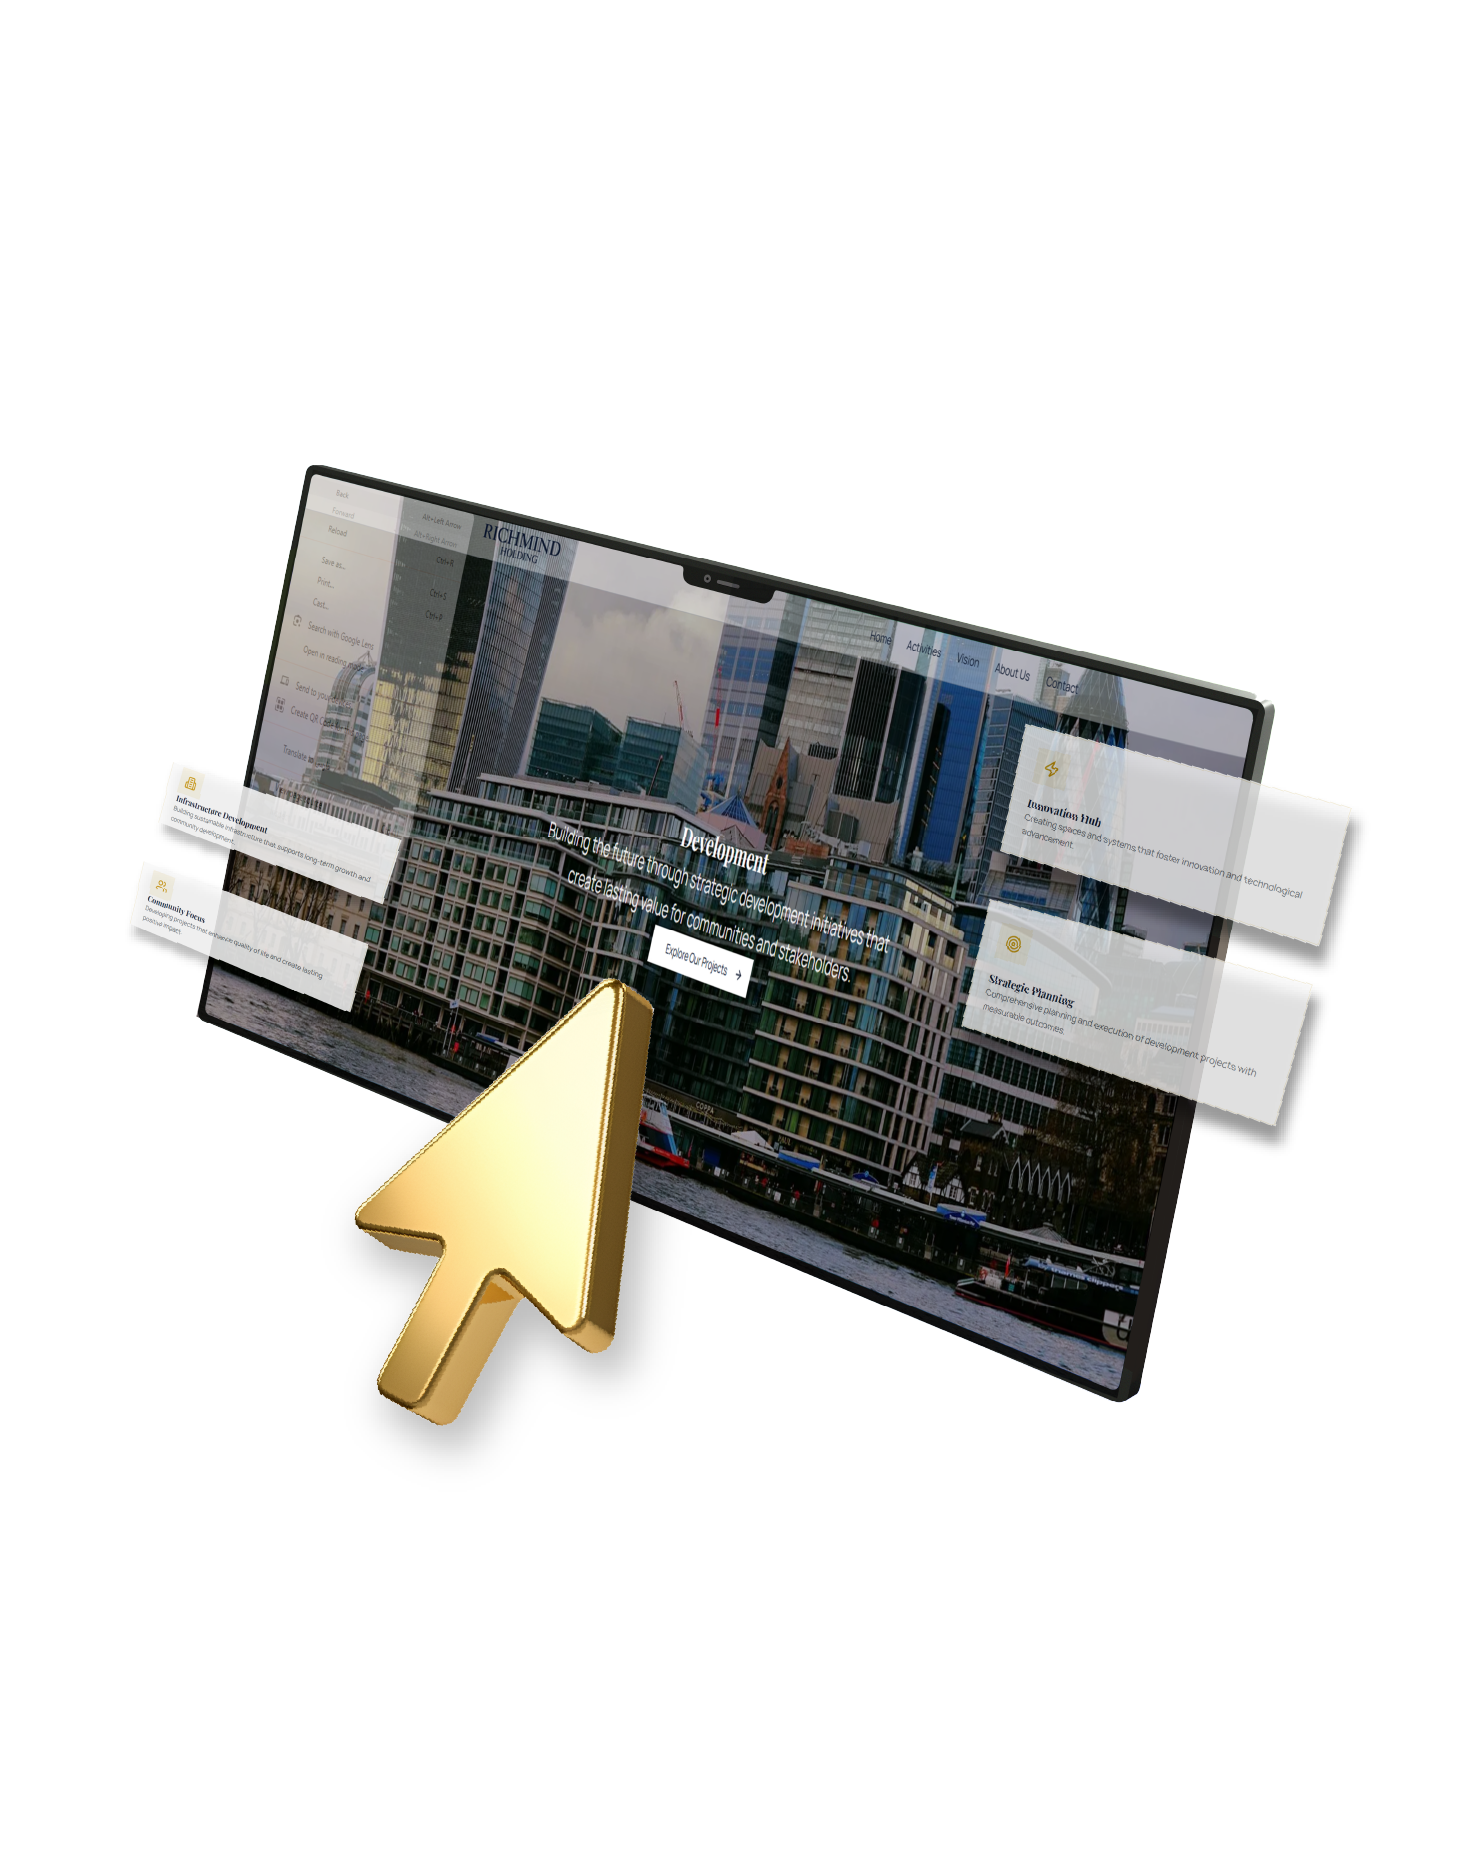
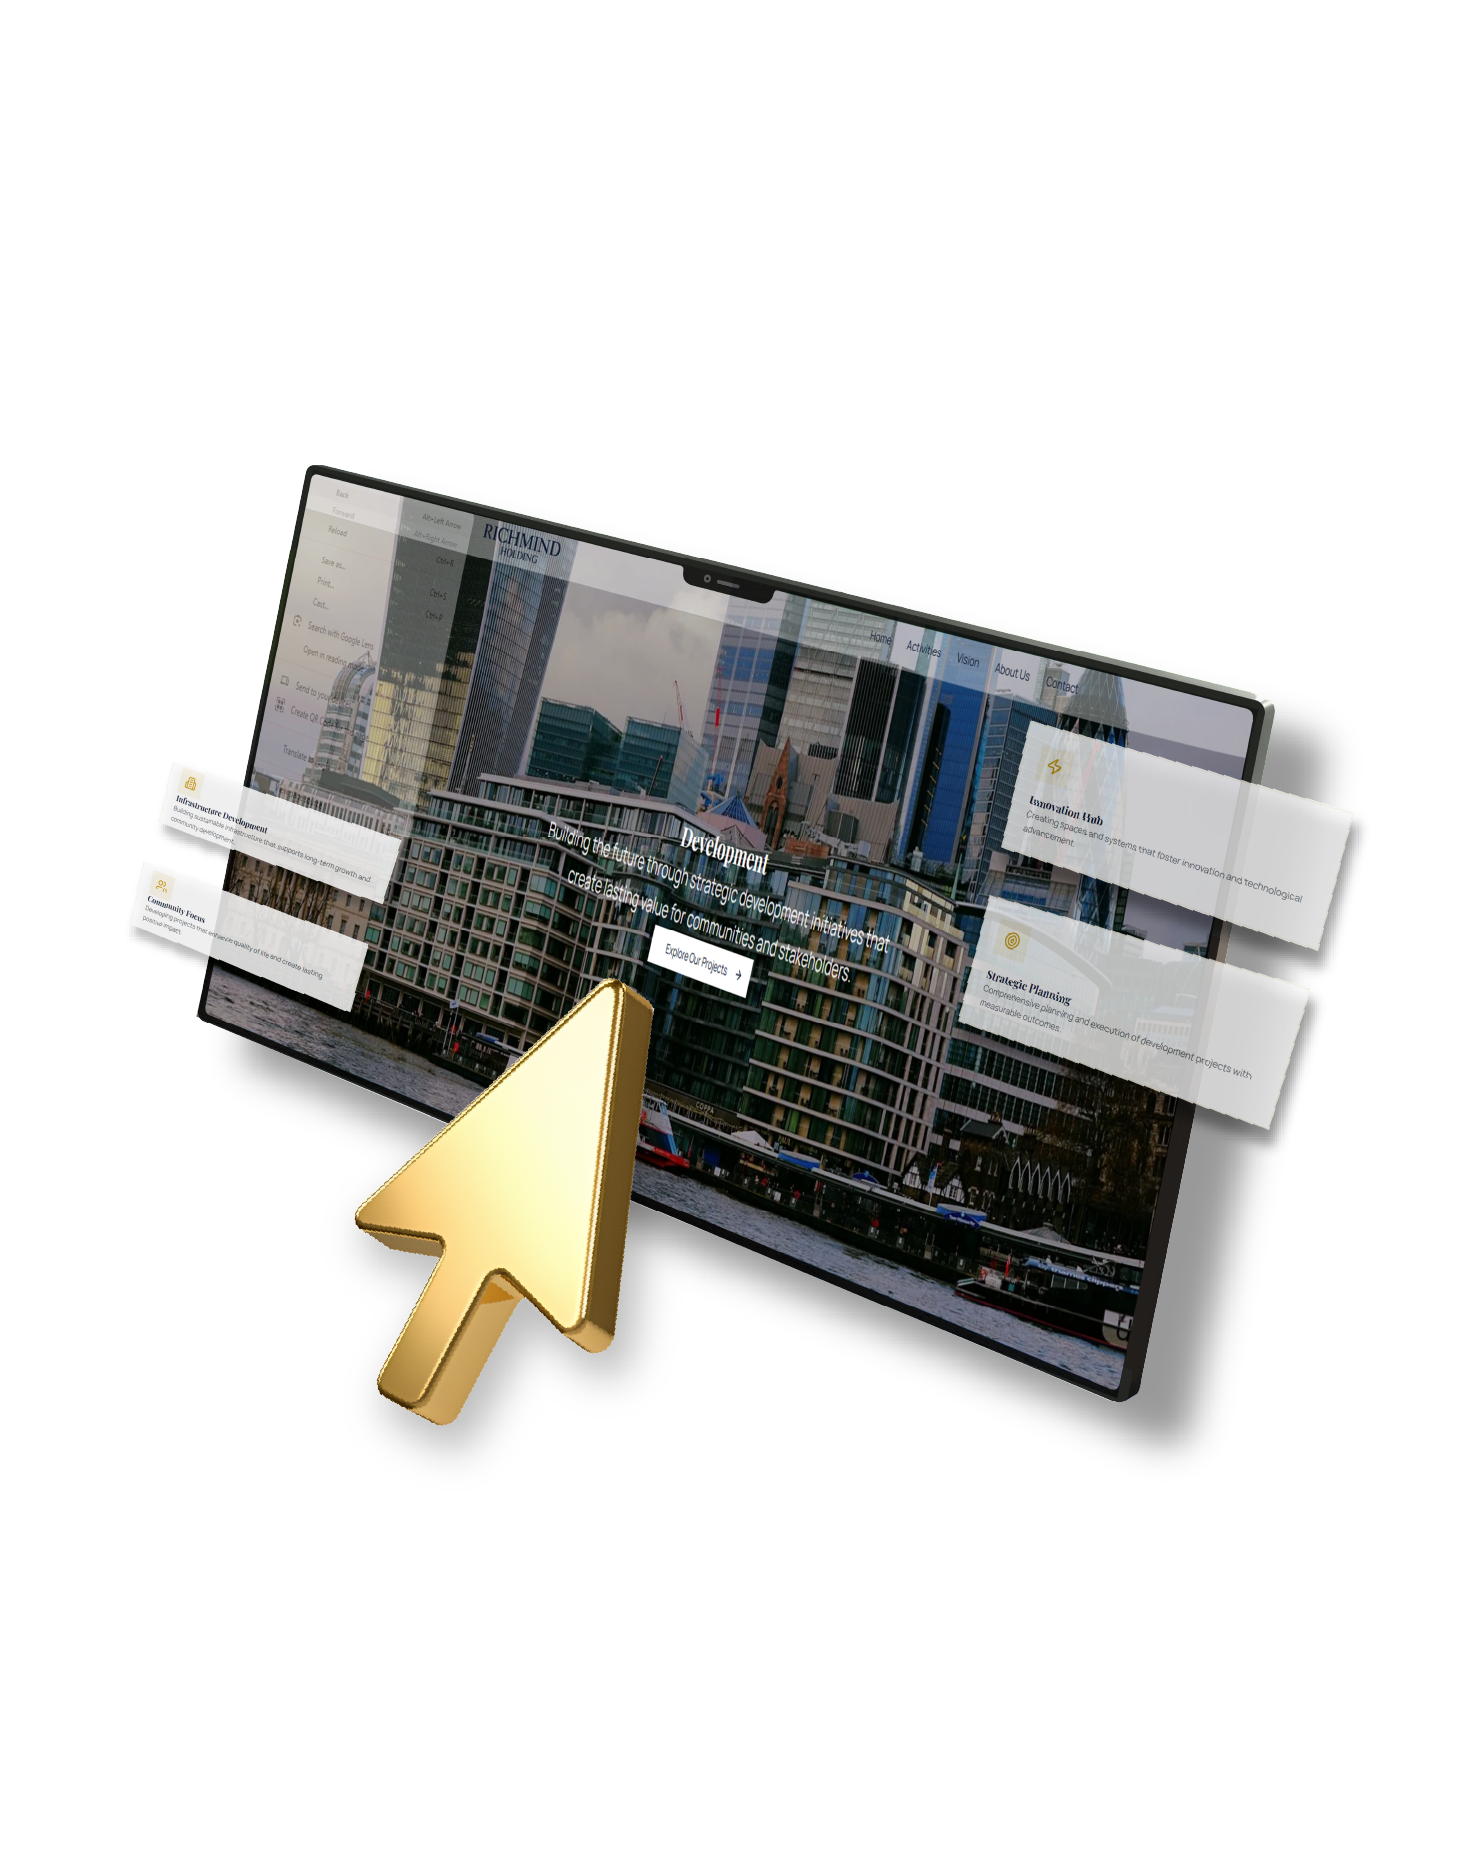
v0.1.25

diff --git a/app/components/Doublerm/Doublerm.tsx b/app/components/Doublerm/Doublerm.tsx
@@ -1,7 +1,6 @@
 "use client";
 
 import Image from "next/image";
-import { Playfair_Display } from "next/font/google";
 import "./Doublerm.scss";
 
 interface DoublermProps {
@@ -12,12 +11,6 @@ interface DoublermProps {
   leftLabel?: string;
   rightLabel?: string;
 }
-
-const playfair = Playfair_Display({
-  subsets: ["latin"],
-  weight: ["400", "600", "700"],
-  display: "swap",
-});
 
 const Doublerm: React.FC<DoublermProps> = ({
   leftSrc,
@@ -80,7 +73,7 @@ const Doublerm: React.FC<DoublermProps> = ({
             className="doublerm-img"
           />
           {leftLabel && (
-            <div className={`doublerm-label lleft ${playfair.className}`}>
+            <div className={`doublerm-label lleft`}>
               {leftLabel}
             </div>
           )}
@@ -103,7 +96,7 @@ const Doublerm: React.FC<DoublermProps> = ({
             className="doublerm-img"
           />
           {rightLabel && (
-            <div className={`doublerm-label lright ${playfair.className}`}>
+            <div className={`doublerm-label lright`}>
               {rightLabel}
             </div>
           )}

diff --git a/app/components/richtxt/richtxt.scss b/app/components/richtxt/richtxt.scss
@@ -1,11 +1,14 @@
 .richtxt {
-  padding: 4rem 0;
+  padding: 0rem 0;
   background: #ffffff;
+  border-bottom: 1px solid #646464;
 
   .richtxt-container {
     max-width: 1400px;
     margin: 0 auto;
-    padding: 0 2rem;
+    padding: 2rem;
+    border-left: 1px solid #646464;
+    border-right: 1px solid #646464;
   }
 
   .richtxt-title {
@@ -141,7 +144,7 @@
   .richtxt-images-row {
     display: grid;
     grid-template-columns: 1fr;
-    margin: 0rem 0;
+    margin: 2rem 0 0 0;
   }
 
   .richtxt-images {
@@ -171,7 +174,7 @@
       animation: fadeInUp 0.8s ease-out forwards;
       animation-play-state: paused;
       margin-top: -40px; // Position middle image slightly higher
-    height: 400px;
+    height: 800px;
     }
 
     &:nth-child(3) {
@@ -292,7 +295,6 @@
 
   .richtxt-row-3 {
     grid-template-columns: 1fr 1fr;
-
     @media (max-width: 768px) {
       grid-template-columns: 1fr;
       gap: 2rem;

diff --git a/app/components/richvid/richvid.scss b/app/components/richvid/richvid.scss
@@ -1,7 +1,8 @@
 .richvid {
-  padding: 4.8rem 0;
+  margin: 0;
   background: #ffffff;
-
+border-left: 1px solid #646464;
+    border-right: 1px solid #646464;
   // Custom cursor styles
   &-custom-cursor {
     position: fixed;
@@ -19,9 +20,11 @@
   }
 
   .richvid-container {
-    max-width: 1200px;
-    margin: 0 auto;
-    padding: 0 2rem;
+    max-width: 1400px;
+    margin: 0rem auto;
+    padding: 4rem 1rem;
+    border-left: 1px solid #646464;
+    border-right: 1px solid #646464;
   }
 
   .richvid-header {
@@ -34,7 +37,7 @@
     font-size: 4rem;
     font-weight: 700;
     color: #c99500;
-    margin: 0 0 1rem 0;
+    padding: 2rem 0;
     line-height: 1.4;
   }
 
@@ -76,7 +79,6 @@
     border: none;
     outline: none;
     cursor: none; // Hide default cursor
-
     &--default-cursor {
       cursor: pointer; // Show default cursor when custom cursor is disabled
     }

diff --git a/app/components/Doublerm/Doublerm.scss b/app/components/Doublerm/Doublerm.scss
@@ -49,7 +49,7 @@
   &-label.lleft {
     left: auto;
     top: 0rem;
-    font-size: 212px;
+    font-size: 194px;
     // letter-spacing: 1rem;
     color: #c99500;
     background: rgba(240, 240, 240, 0.4);
@@ -57,8 +57,8 @@
   }
   &-label.lright {
     right: auto;
-    top: 46rem;
-    font-size: 200px;
+    bottom: 0;
+    font-size: 194px;
     // letter-spacing: 1rem;
     color: #c99500;
     background: rgba(240, 240, 240, 0.4);

diff --git a/app/rva/page.tsx b/app/rva/page.tsx
@@ -10,7 +10,7 @@ export default function RvaPage() {
   const slides = [
     {
       id: 1,
-      src: "/images/MTG.sitebanner.insidepages.v1.01.00.1404.06.16-01.webp",
+      src: "/images/MTG.sitebanner.insidepages.v1.01.00.1404.06.16-09 (1).webp",
       alt: "Royal Virtual Assets",
       title: "Royal Virtual Assets",
       description:

diff --git a/app/richmind/page.tsx b/app/richmind/page.tsx
@@ -36,7 +36,7 @@ export default function RichMindPage() {
         ]}
         images={[
           "/images/carsel2-01-01.webp",
-          "/images/MTG.RICHMINDSITEBANNERS.V1.01.00.1404.06-03.webp",
+          "/images/richmindsite-01.webp",
           "/images/carsel-02.webp",
         ]}
         layout="four-row"
